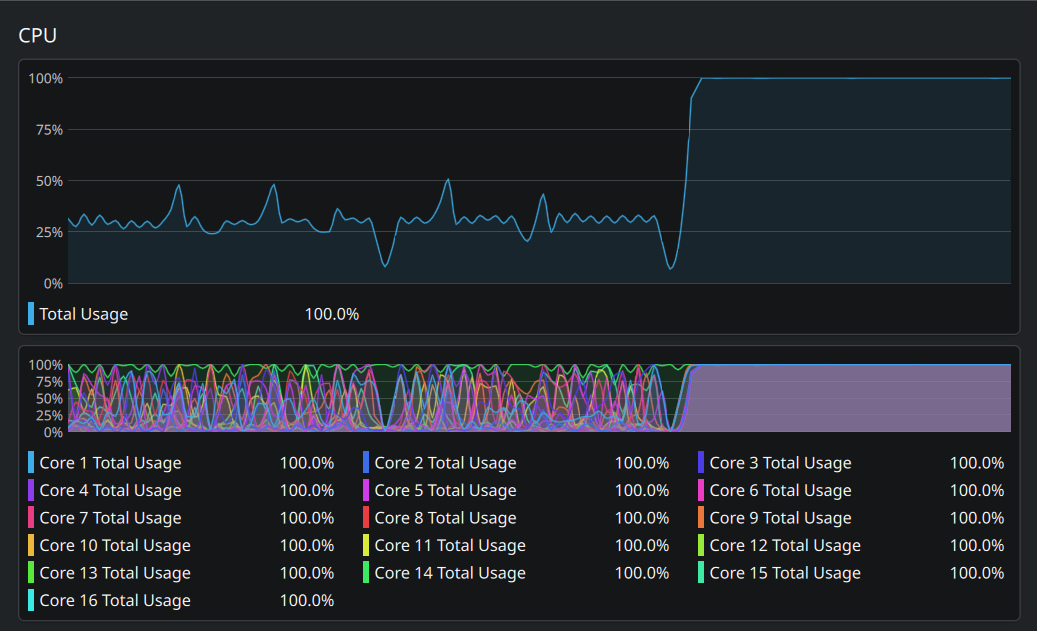
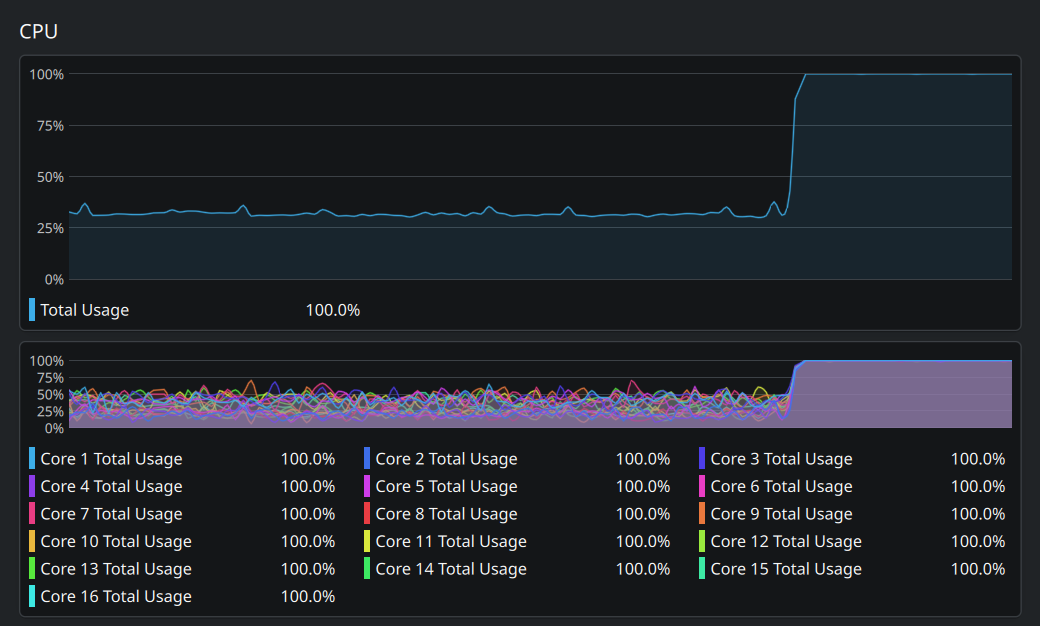
docs: refresh benchmark reference results

diff --git a/README.md b/README.md
@@ -430,18 +430,18 @@ The script is focused on what to watch: not just `bogo ops/s`, but also frame pa
 
 ### Reference results
 
-The table below comes from one recorded comparison on a Lenovo IdeaPad Gaming 3 15ARH7 running CachyOS with a `6.19.5-3-cachyos` kernel. It reflects a `v1.3.6` benchmark run, so treat it as a concrete reference point for this machine and workload rather than a promise that every later release or every other system will reproduce the same numbers.
+The table below comes from one recorded comparison on a Lenovo IdeaPad Gaming 3 15ARH7 running CachyOS with a `6.19.5-3-cachyos` kernel, KDE Plasma on Wayland, and the panel's default 500-fish Aquarium workload. During both runs, `stress-ng` reported that the CPU scaling governors were still set to `powersave`, so treat this as a concrete reference point for this machine and setup rather than a promise that every later release or every other system will reproduce the same numbers.
 
 | Phase | Metric | Baseline | Cognis | Delta |
 |:--|:--|--:|--:|--:|
-| CPU | bogo ops/s (real) | 22,055.82 | 22,210.24 | +0.7% |
-| CPU | bogo ops/s (usr) | 1,411.10 | 1,411.04 | 0.0% |
-| I/O | bogo ops/s (real) | 178,202.08 | 180,383.24 | +1.2% |
-| I/O | bogo ops/s (usr) | 40,448.66 | 40,180.41 | -0.7% |
-| Mixed CPU | bogo ops/s (real) | 19,760.80 | 19,781.18 | +0.1% |
-| Mixed CPU | bogo ops/s (usr) | 1,417.85 | 1,419.61 | +0.1% |
-| Mixed VM | bogo ops/s (real) | 24,555.34 | 24,566.91 | +0.0% |
-| Mixed VM | bogo ops/s (usr) | 14,789.09 | 14,021.45 | -5.2% |
+| CPU | bogo ops/s (real) | 20,588.69 | 21,497.25 | +4.4% |
+| CPU | bogo ops/s (usr) | 1,373.80 | 1,399.02 | +1.8% |
+| I/O | bogo ops/s (real) | 183,211.76 | 180,076.39 | -1.7% |
+| I/O | bogo ops/s (usr) | 43,187.95 | 42,844.41 | -0.8% |
+| Mixed CPU | bogo ops/s (real) | 18,402.63 | 18,748.51 | +1.9% |
+| Mixed CPU | bogo ops/s (usr) | 1,394.70 | 1,401.14 | +0.5% |
+| Mixed VM | bogo ops/s (real) | 24,523.72 | 24,540.00 | +0.1% |
+| Mixed VM | bogo ops/s (usr) | 14,936.02 | 14,387.09 | -3.7% |
 
 The two screenshots below show the comparison used in this benchmark section:
 
@@ -461,7 +461,7 @@ The two screenshots below show the comparison used in this benchmark section:
 
 The useful point of the benchmark is not “Cognis always produces a larger benchmark number.” The more honest reading is narrower than that.
 
-On the recorded reference machine, the numbers above stayed close to baseline while Cognis was tuned for responsiveness-first behavior. That is useful context, but it is still only one machine, one governor configuration, and one set of runs.
+On the recorded reference machine, this run improved CPU-heavy throughput modestly, stayed nearly even in the mixed phase, and gave back a little throughput in the I/O-heavy and VM-user-time numbers. That is useful context, but it is still only one machine, one governor configuration, and one set of runs.
 
 If you want numbers you can trust on your own hardware, keep the governor fixed, run both modes multiple times, and compare medians. Then watch the Aquarium while you do it. The whole project makes a lot more sense when you look at throughput and interaction quality at the same time.
 
